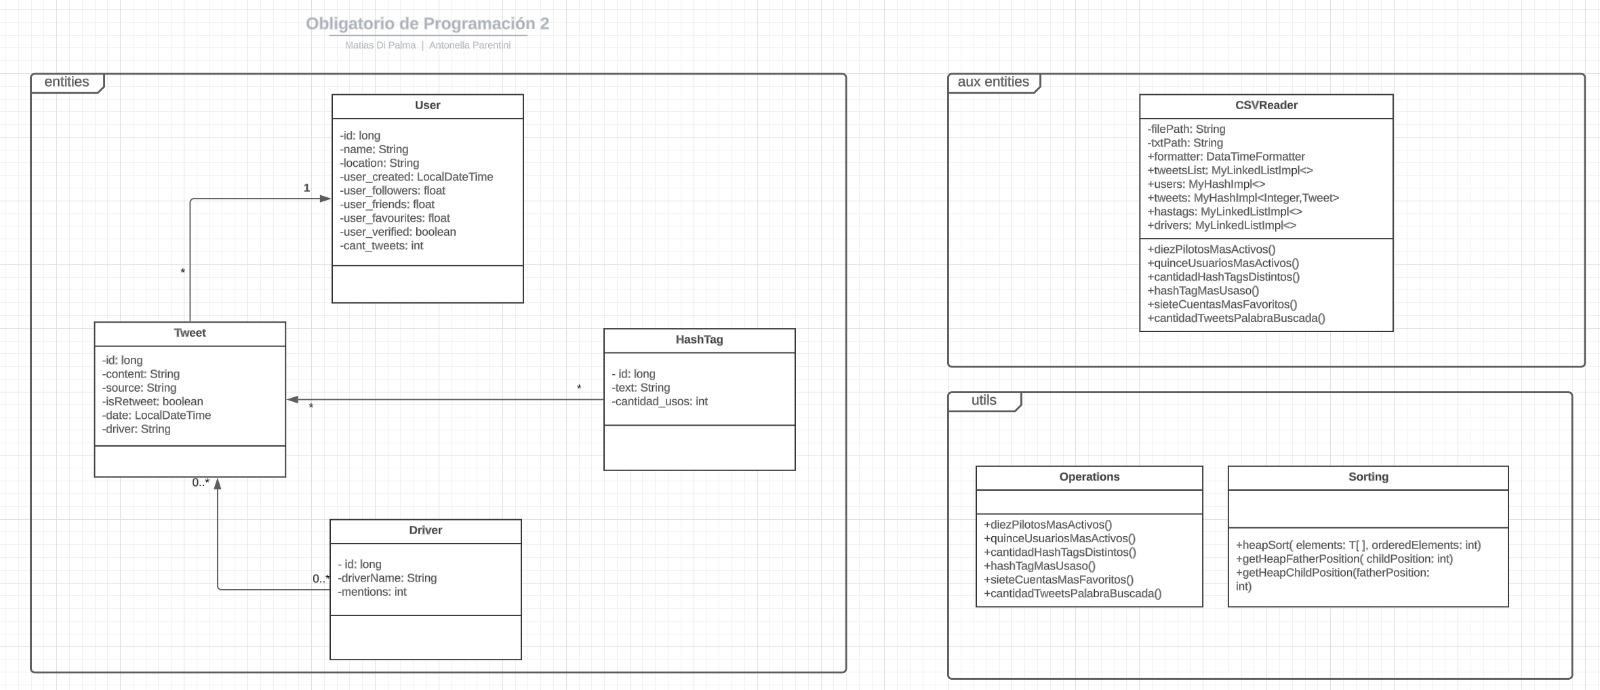
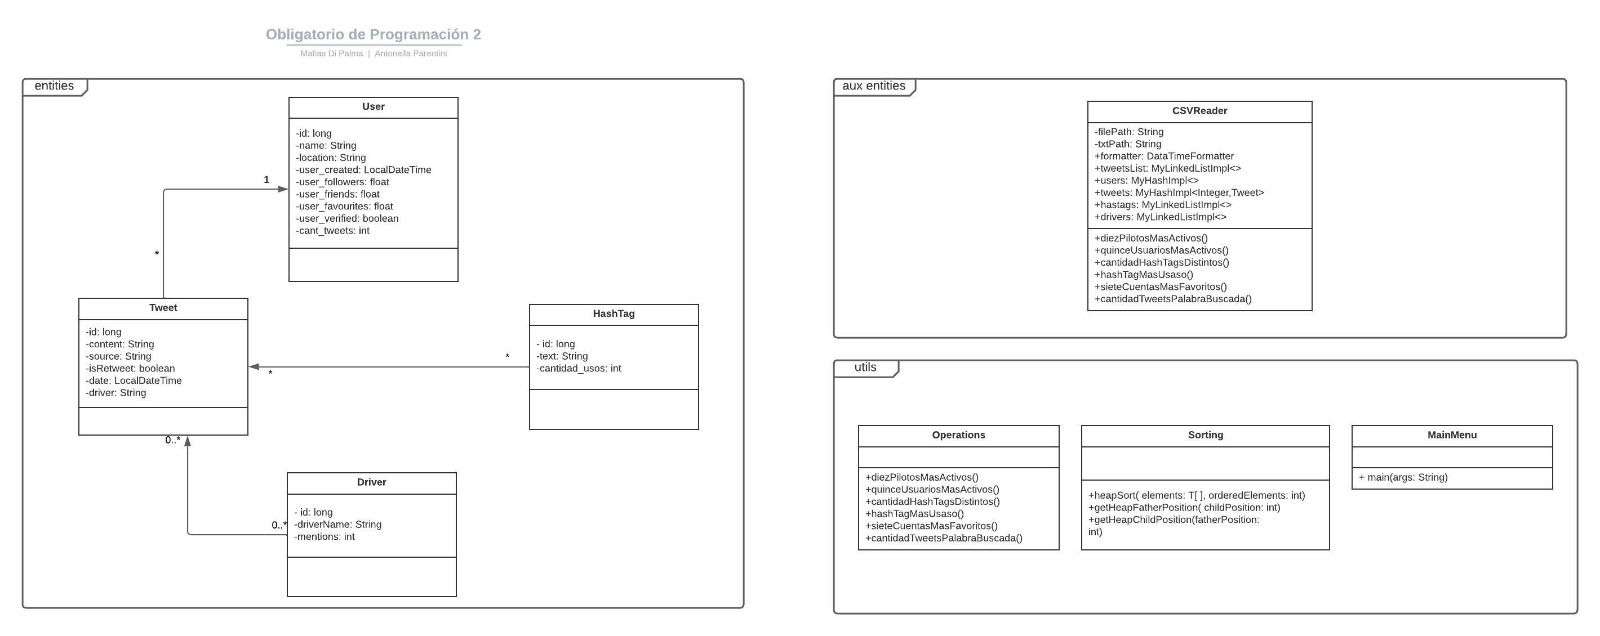
Arreglo función 2 y UML

diff --git a/src/main/java/Operations.java b/src/main/java/Operations.java
@@ -85,25 +85,23 @@ public class Operations {
         MyHeap<Integer> heapUsuarios = new MyHeapImpl<>(500000);
         long startTime2 = System.currentTimeMillis();
         try{
-        for (int i = 0; i < CSVReader.usersKeyNumber.size(); i++){
+
+
+            for (int i = 0; i < CSVReader.usersKeyNumber.size(); i++){
 
             heapUsuarios.insert(CSVReader.usersKeyNumber.get(i).getCant_tweets());
         }
-        for(int i = 0; i < heapUsuarios.size() - 1; i++){
-            if(i < heapUsuarios.size() -15 ){
-
-                for(int i1 = 0; i1 < CSVReader.usersKeyNumber.size() - 1; i1++){
-                    if(CSVReader.usersKeyNumber.get(i1).getCant_tweets() == heapUsuarios.get()){
-                        System.out.println(CSVReader.usersKeyNumber.get(i1).getName()+ " " + heapUsuarios.get());
-                        heapUsuarios.delete();
-                    }
-                }
-            }
-            else{
+            Integer[] arrayUsuarios = new Integer[heapUsuarios.size()];
+            for(int i1 = 0; i1 < CSVReader.usersKeyNumber.size(); i1++){
+                int cosa = heapUsuarios.get();
                 heapUsuarios.delete();
+                arrayUsuarios[i1] = cosa;
+            }
+            for(int i2 = 0; i2 < 15; i2++){
+
+                System.out.println(CSVReader.usersKeyNumber.get(CSVReader.usersKeyNumber.size() -i2 -1).getName()+ " " + arrayUsuarios[arrayUsuarios.length - i2 -1] +" " + CSVReader.usersKeyNumber.get(CSVReader.usersKeyNumber.size() -i2 -1).getUser_verified());
             }
 
-        }
         }
         catch (java.lang.NullPointerException e){
 
@@ -111,7 +109,7 @@ public class Operations {
         long endTime2 = System.currentTimeMillis();
         long duration2 = (endTime2 - startTime2);
         //System.out.println(duration2);
-    }  //Imprime más de 15
+    } 
 
 
 
